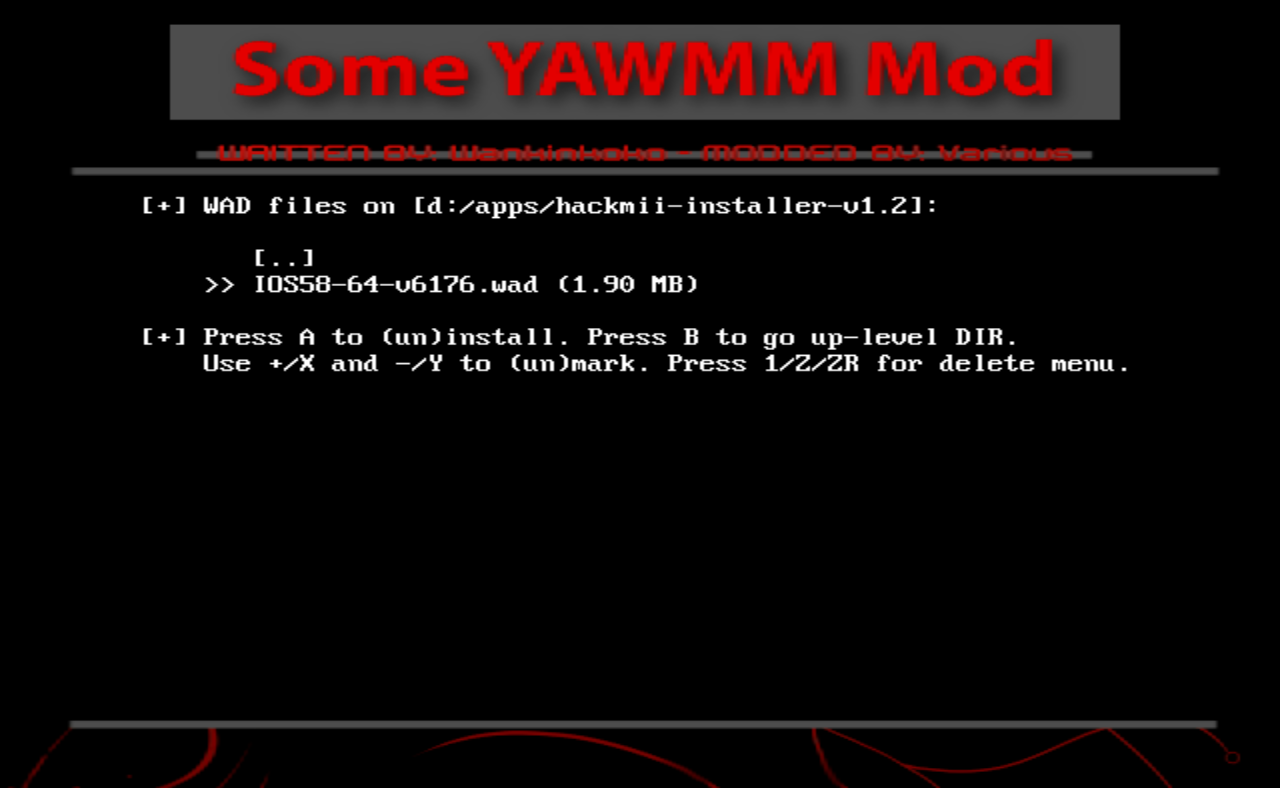
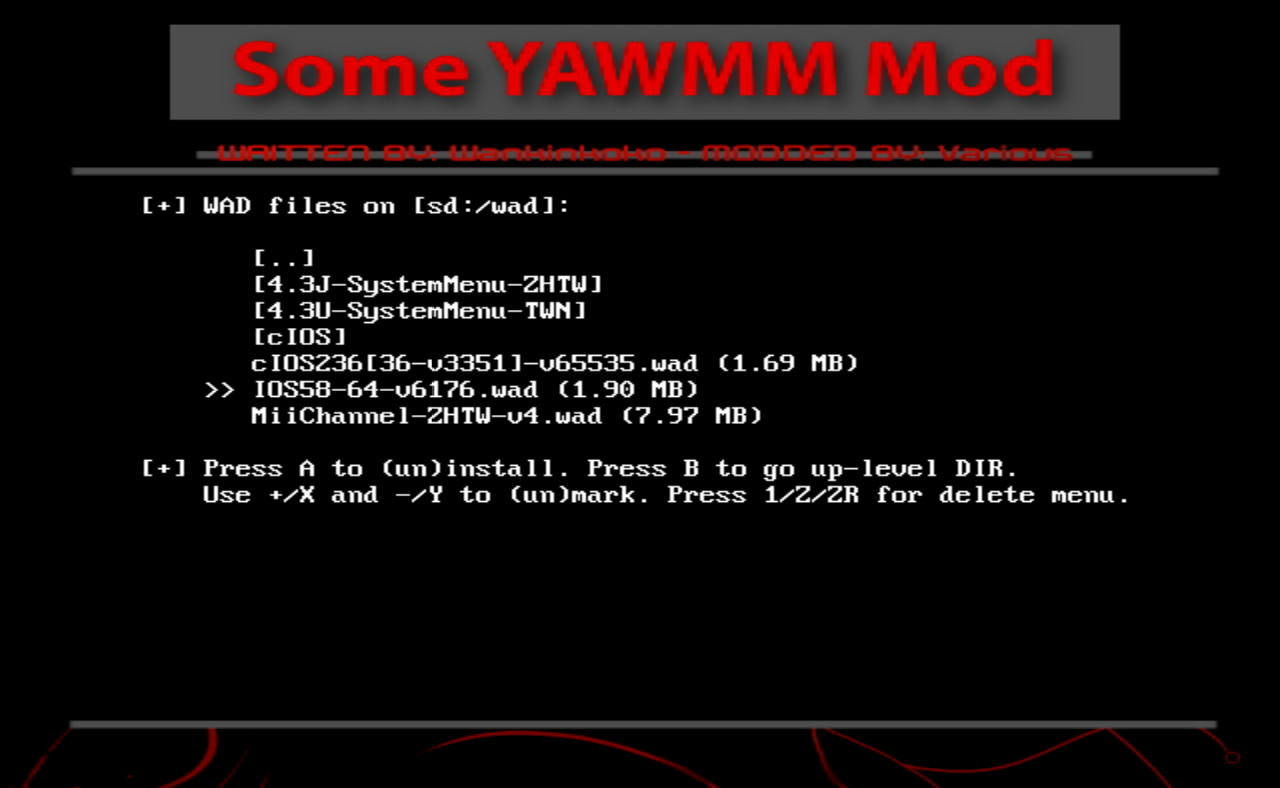
《Step 4: 安装 IOS58》优化

Changed region(s): [[0.125, 0.335, 0.875, 0.5482], [0.0938, 0.5787, 0.875, 0.6396], [0.3125, 0.2437, 0.7188, 0.2741]]

diff --git a/ios58/README.md b/ios58/README.md
@@ -21,7 +21,7 @@ IOS58 是 4.3 系统新增加的系统级 IOS，它全面支持 USB2.0 协议，
 - 安装 IOS58 这样的系统级 IOS，一般 WAD 安装工具可能会因为权限不足而失败，如下图所示：<br/>
   ![](./yawmME-install-wad-error.png)
 
-- 如果你无法在 MMM 中完成 IOS58 的安装，请参考[《安装 USB Loader 使用的 cIOS（2022 版）》](@ref some-yawmm-mod)中的操作步骤来安装 IOS58-64-v6176.wad，然后略过本文余下的内容，跳转到[《Step 5: 安装 1.1.2 版本的 HBC》](@ref step5)继续操作：<br/>
+- 如果你无法在 MMM 中完成 IOS58-64-v6176.wad 的安装，请参考[《安装 USB Loader 使用的 cIOS（2022 版）》](@ref some-yawmm-mod)中的操作步骤，使用 Some YAWMM Mod 来完成安装，然后略过本文余下的内容，跳转到[《Step 5: 安装 1.1.2 版本的 HBC》](@ref step5)继续操作：<br/>
   ![](./yawmm-select-ios58.png)
 
 
@@ -36,8 +36,8 @@ IOS58 是 4.3 系统新增加的系统级 IOS，它全面支持 USB2.0 协议，
 3. 先按遥控器手柄的方向键，使 -> 指向 WAD Manager，然后按 [A] 键：<br/>
   ![](./mmm-wad-manager.png)
 
-4. 进入 `apps/hackmii-installer-v1.2` 文件夹，按遥控器手柄的方向键，使 >> 指向 IOS58-64-v6176.wad，然后按 [A] 键：<br/>
-  ![](./mmm-sel-ios58.png)
+4. 进入 `wad` 文件夹，按遥控器手柄的方向键，使 >> 指向 IOS58-64-v6176.wad，然后按 [A] 键：<br/>
+  ![](./mmm-select-ios58.png)
 
 5. 按 [A] 键继续：<br/>
   ![](./mmm-press-a-to-continue.png)
